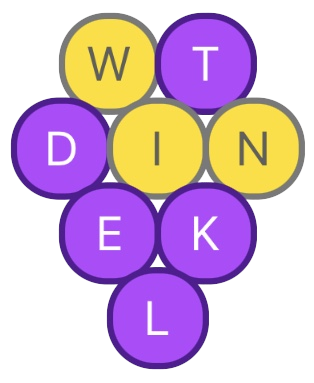
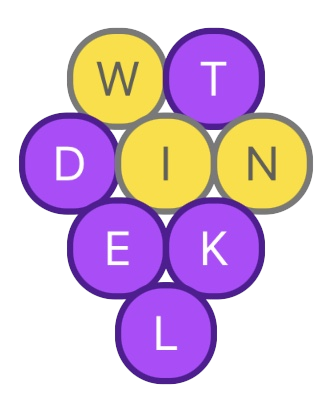
New big bunch image and format

diff --git a/assets/css/beautifuljekyll.css b/assets/css/beautifuljekyll.css
@@ -103,6 +103,11 @@ img {
   max-width: 100%;
 }
 
+img[src*='#center'] {
+    display: block;
+    margin: auto;
+}
+
 .linked-section {
   padding-top: 3.75rem;
   margin-top: -1.5625rem;

diff --git a/bigBunch.md b/bigBunch.md
@@ -12,6 +12,6 @@ Big Bunch is a 24 hour daily word game that begins and ends at midnight Eastern 
 
 The first player to reach the day's highest score wins.
 
-![](/assets/img/bigBunch_win.png){:style="display:block; margin-left:auto; margin-right:auto" :width="50%"}
+![](/assets/img/bigBunch_win.png#center){:width="50%"}
 
 #### Available for iPad and iOS 15.0 and above
